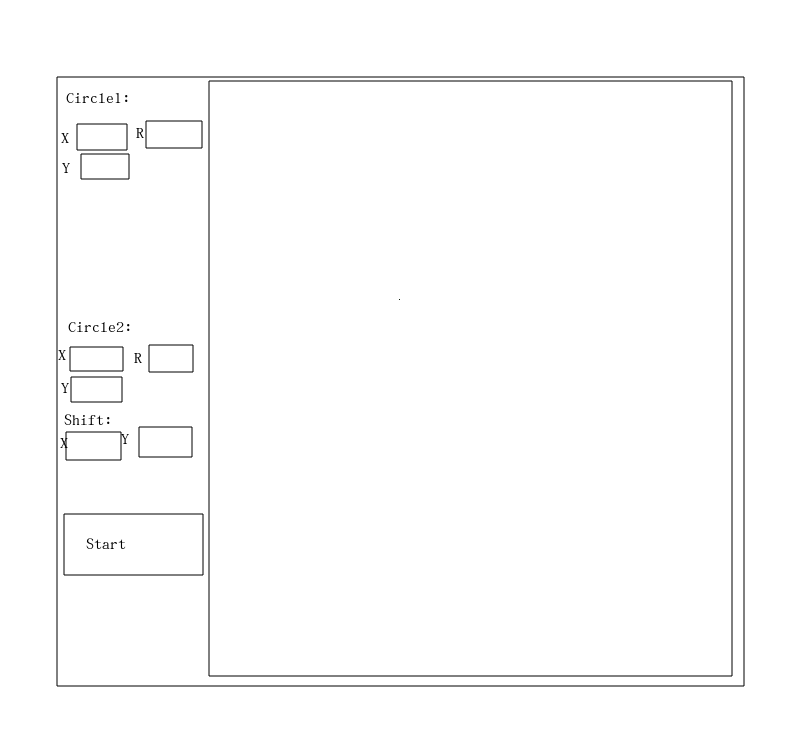
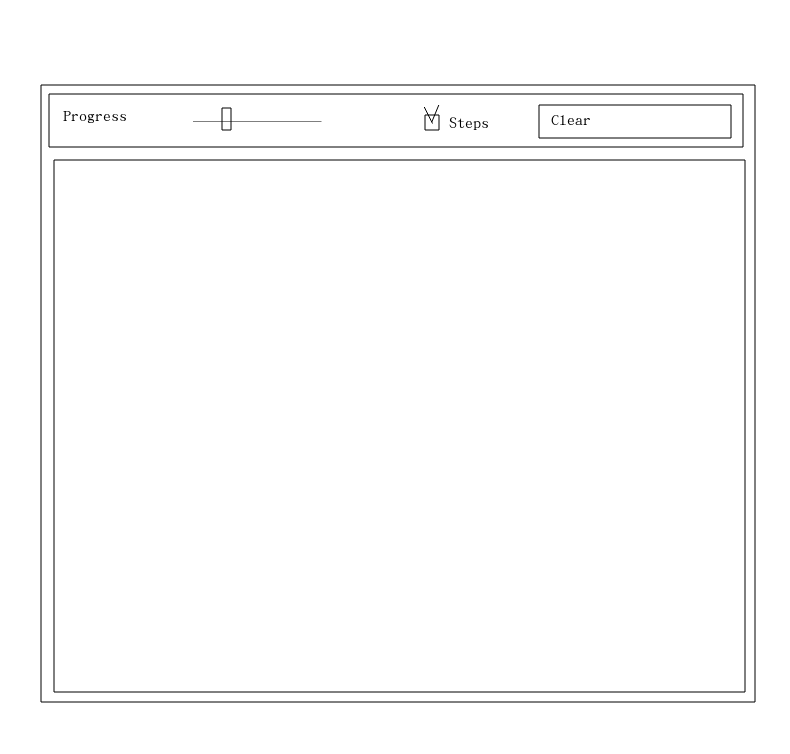
lab2 done?

diff --git a/lab2/gui/drawField.cpp b/lab2/gui/drawField.cpp
@@ -2,6 +2,7 @@
 #include <QPainter>
 #include <cmath>
 #include <iostream>
+#include <limits>
 
 #include "../include/drawField.h"
 
@@ -12,6 +13,9 @@ using namespace std;
 
 DrawField::DrawField(QWidget *parent) : QWidget(parent)
 {
+    stepDrawing = false;
+    progressDrawing = 50;
+
     all_p = new list<sPoint*>();
 
     resize(W, H);
@@ -40,7 +44,15 @@ void DrawField::drawH(QPainter& qp)
         drawPoint(*el, qp);
 
     if(all_p->size() > 1)
+    {
         drawBeze(qp);
+
+        if(stepDrawing)
+        {
+            float val = progressDrawing / 100.0f;
+            drawBezeInteractive(qp, val);
+        }
+    }
 }
 
 sPoint DrawField::beze_n1(sPoint p0, sPoint p1, float progress)
@@ -61,9 +73,70 @@ sPoint DrawField::beze_n1(sPoint p0, sPoint p1, float progress)
     return res;
 }
 
+void DrawField::clearAllPoints()
+{
+    all_p->clear();
+    update();
+}
+
+void DrawField::changeProgress_ui_beze(int progress)
+{
+    //std::cout << progress << std::endl;
+    progressDrawing = progress;
+    update();
+}
+
+void DrawField::drawBezeInteractive(QPainter& qp, float progress)
+{
+    double t = progress;
+
+    list<sPoint> buff_l;
+    for(sPoint *el : *all_p)
+        buff_l.push_back(*el);
+
+    int c = 0;
+    int n = buff_l.size();
+    while(buff_l.size() != 1)
+    {
+        if(c == n-1)
+        {
+            buff_l.pop_front();
+            n = buff_l.size();
+            c = 0;
+        }
+        else
+        {
+            sPoint p0 = buff_l.front();
+            buff_l.pop_front();
+            sPoint p1 = buff_l.front();
+
+            printLine(p0, p1, qp);
+
+            sPoint p = beze_n1(p0, p1, t);
+
+            buff_l.push_back(p);
+            ++c;
+        }
+    }
+
+    sPoint res_p = buff_l.front();
+
+    QColor colo = QColor(255, 10, 10);
+    drawPoint(res_p, qp, &colo);
+    //qp.drawPoint(res_p.getX(), res_p.getY());
+}
+
+void DrawField::setStepDrawind(bool isStep)
+{
+    stepDrawing = isStep;
+    update();
+}
+
 void DrawField::drawBeze(QPainter& qp)
 {
-    for(double t = 0.0; t < 1.0; t += 0.002)
+    // https://www.cat-in-web.ru/bezier-curves/
+    double dt = 1.0/( 500 * (all_p->size()) );
+    for(double t = 0.0; t < 1.0; t += dt)
     {
         list<sPoint> buff_l;
         for(sPoint *el : *all_p)
@@ -95,7 +168,8 @@ void DrawField::drawBeze(QPainter& qp)
     }
 }
 
-void DrawField::mouseReleaseEvent(QMouseEvent* m_event)
+//void DrawField::mouseReleaseEvent(QMouseEvent* m_event)
+void DrawField::mousePressEvent(QMouseEvent* m_event)
 {
     /*Q_UNUSED(m_event);
     int m_x = QCursor::pos().x();
@@ -116,15 +190,41 @@ void DrawField::mouseReleaseEvent(QMouseEvent* m_event)
 
     //int x = m_event->x();
     //int y = m_event->y();
-    int x = rightRound(m_event->position().x());
-    int y = rightRound(m_event->position().y());
 
-    sPoint* p = new sPoint(x, y);
+    //if(m_event->buttons() == Qt::LeftButton)
+    if(m_event->buttons() == Qt::RightButton)
+    {
+        if(!all_p->empty())
+        {
+            int x = rightRound(m_event->position().x());
+            int y = rightRound(m_event->position().y());
 
-    all_p->push_back(p);
+            double S_min = std::numeric_limits<double>::infinity();
+            sPoint* p_min = NULL;
+            for(sPoint* near_p : *all_p)
+            {
+                double d_cur = (near_p->getX() - x)*(near_p->getX() - x) + (near_p->getY() - y)*(near_p->getY() - y);
+                if(d_cur < S_min)
+                {
+                    S_min = d_cur;
+                    p_min = near_p;
+                }
+            }
+            p_min->setX(x);
+            p_min->setY(y);
+        }
+    }
+    else
+    {
+        int x = rightRound(m_event->position().x());
+        int y = rightRound(m_event->position().y());
 
-    //cout << "Clicked " << x << " " << y << endl;
+        sPoint* p = new sPoint(x, y);
 
+        all_p->push_back(p);
+
+        //cout << "Clicked " << x << " " << y << endl;
+    }
     update();
 }
 
@@ -161,8 +261,16 @@ void DrawField::printLine(const sPoint& p0, const sPoint& p1, QPainter& pen)
     }
 }
 
-void DrawField::drawPoint(const sPoint& p, QPainter& qp)
+void DrawField::drawPoint(const sPoint& p, QPainter& qp, QColor *colo/* = 0*/)
 {
+    QPen prevPen = qp.pen();
+
+    if(colo != 0)
+    {
+        QPen curPen = QPen(*colo);
+        qp.setPen(curPen);
+    }
+
     int x0 = p.x();
     int y0 = p.y();
     int r = 5;
@@ -186,4 +294,6 @@ void DrawField::drawPoint(const sPoint& p, QPainter& qp)
         qp.drawPoint(x, y1);
         qp.drawPoint(x, y2);
     }
+
+    qp.setPen(prevPen);
 }

diff --git a/lab2/gui/settingPanel.cpp b/lab2/gui/settingPanel.cpp
@@ -2,8 +2,11 @@
 #include <QLabel>
 #include <QPushButton>
 #include <QLineEdit>
+#include <QSlider>
 #include <QGridLayout>
 #include <QDialog>
+#include <QString>
+#include <QCheckBox>
 #include <cmath>
 
 #include <string>
@@ -24,12 +27,31 @@ SettingPanel::SettingPanel(QWidget *parent) : QWidget(parent)
     grid->setHorizontalSpacing(1); // интервал вертикальный
     grid->setVerticalSpacing(1); // интервал горизонтальный
 
-    QLabel *testTitle = new QLabel("Circle 1:", this);
-    grid->addWidget(testTitle, 0, 0, 1, 1);
+    QLabel *helpLabel = new QLabel("Guide: [left mouse button] is [create point], [right mouse button] is [move point]", this);
+    grid->addWidget(helpLabel, 0, 0, 1, 4);
+
+    QLabel *progressTitle = new QLabel("Progress:", this);
+    grid->addWidget(progressTitle, 1, 0, 1, 1);
+    //QLabel *emptyTitle = new QLabel(" ", this);
+    //grid->addWidget(emptyTitle, 0, 2, 1, 1);
+
+    uiCheckBox = new QCheckBox("Step draw", this);
+    grid->addWidget(uiCheckBox, 1, 2, 1, 1);
+
+    progressSlider = new QSlider(Qt::Horizontal, this);
+    progressSlider->setMinimum(0);
+    progressSlider->setMaximum(100);
+    grid->addWidget(progressSlider, 1, 1, 1, 1);
+    grid->setColumnStretch(1, 100);
+
+    clearButton = new QPushButton("Clear", this);
+    grid->addWidget(clearButton, 1, 3, 1, 1);
 
     setLayout(grid);
 
-    //connect(bStart, &QPushButton::released, this, &SettingPanel::check_and_start);
+    connect(clearButton, &QPushButton::released, this, &SettingPanel::clearButtonHundler);
+    connect(progressSlider, &QSlider::valueChanged, this, &SettingPanel::progressSliderHundler);
+    connect(uiCheckBox, &QCheckBox::stateChanged, this, &SettingPanel::uiCheckBoxHundler);
 }
 
 void SettingPanel::ifFailed(string msg)
@@ -41,4 +63,32 @@ void SettingPanel::ifFailed(string msg)
     gr->addWidget(label, 0, 0);
     error->setLayout(gr);
     error->show();
+}
+
+void SettingPanel::clearButtonHundler()
+{
+    MainWindow* mw = (MainWindow*)_par;
+
+    mw->getDrawField()->clearAllPoints();
+}
+
+void SettingPanel::progressSliderHundler()
+{
+    MainWindow* mw = (MainWindow*)_par;
+
+    int value = progressSlider->value();
+
+    //clearButton->setText( QString::number(value) );
+    //update();
+
+    mw->getDrawField()->changeProgress_ui_beze(value);
+}
+
+void SettingPanel::uiCheckBoxHundler()
+{
+    MainWindow* mw = (MainWindow*)_par;
+
+    int value = uiCheckBox->isChecked();
+
+    mw->getDrawField()->setStepDrawind(value);
 }

diff --git a/lab2/include/drawField.h b/lab2/include/drawField.h
@@ -19,17 +19,24 @@ class DrawField : public QWidget
     const unsigned W = 300;
     const unsigned H = 350;
 
+    bool stepDrawing;
+    int progressDrawing;
+
     std::list<sPoint*> *all_p;
 
   public:
     DrawField(QWidget *parent = 0);
     ~DrawField();
+
+    void clearAllPoints();
+    void changeProgress_ui_beze(int progress);
+    void setStepDrawind(bool isStep);
  
   private:
     void paintEvent(QPaintEvent *event);
     void printLine(const sPoint& p0, const sPoint& p1, QPainter& pen);
 
-    void drawPoint(const sPoint& p, QPainter& qp);
+    void drawPoint(const sPoint& p, QPainter& qp, QColor *colo = 0);
 
     void drawH(QPainter& qp);
 
@@ -40,7 +47,8 @@ class DrawField : public QWidget
     void drawBezeInteractive(QPainter& qp, float progress);
 
   protected:
-    void mouseReleaseEvent(QMouseEvent* m_event);
+    //void mouseReleaseEvent(QMouseEvent* m_event);
+    void mousePressEvent(QMouseEvent* m_event);
 };
 
 #endif // DRAWFIELD_H

diff --git a/lab2/gui/mainWindow.cpp b/lab2/gui/mainWindow.cpp
@@ -13,16 +13,21 @@
 
 MainWindow::MainWindow(QWidget *parent) : QWidget(parent)
 {
-    //https://stackoverflow.com/questions/25450598/qlayout-attempting-to-add-qlayout-to-qwidget-which-already-has-a-layout
+    // https://stackoverflow.com/questions/25450598/qlayout-attempting-to-add-qlayout-to-qwidget-which-already-has-a-layout
+    // https://ravesli.com/uroki-po-qt5/
+    // http://knzsoft.ru/qt-bgr-ls1/
+    // ./labX -style=motif
+    // ./labX -style=windows
+    // ./labX -style=platinum
     QGridLayout *grid = new QGridLayout(this);
 
     settingPanel = new SettingPanel(this);
     drawField = new DrawField(this);
 
     grid->addWidget(settingPanel, 0, 0);
-    grid->addWidget(drawField, 0, 1);
+    grid->addWidget(drawField, 1, 0);
 
-    grid->setColumnStretch(1, 100);
+    grid->setRowStretch(1, 100);
 
     setLayout(grid);
 }

diff --git a/lab2/include/settingPanel.h b/lab2/include/settingPanel.h
@@ -6,15 +6,28 @@
 #include <QPushButton>
 #include <QLineEdit>
 #include <QGridLayout>
+#include <QSlider>
+#include <QCheckBox>
 #include <string>
 
 class SettingPanel : public QWidget
 {
     Q_OBJECT
 
-    QWidget *_par;
+    private:
 
-    QGridLayout *grid;
+        QWidget *_par;
+
+        QGridLayout *grid;
+
+        QSlider *progressSlider;
+        void progressSliderHundler();
+
+        QCheckBox *uiCheckBox;
+        void uiCheckBoxHundler();
+
+        QPushButton *clearButton;
+        void clearButtonHundler();
 
     public:
         SettingPanel(QWidget *parent = 0);
